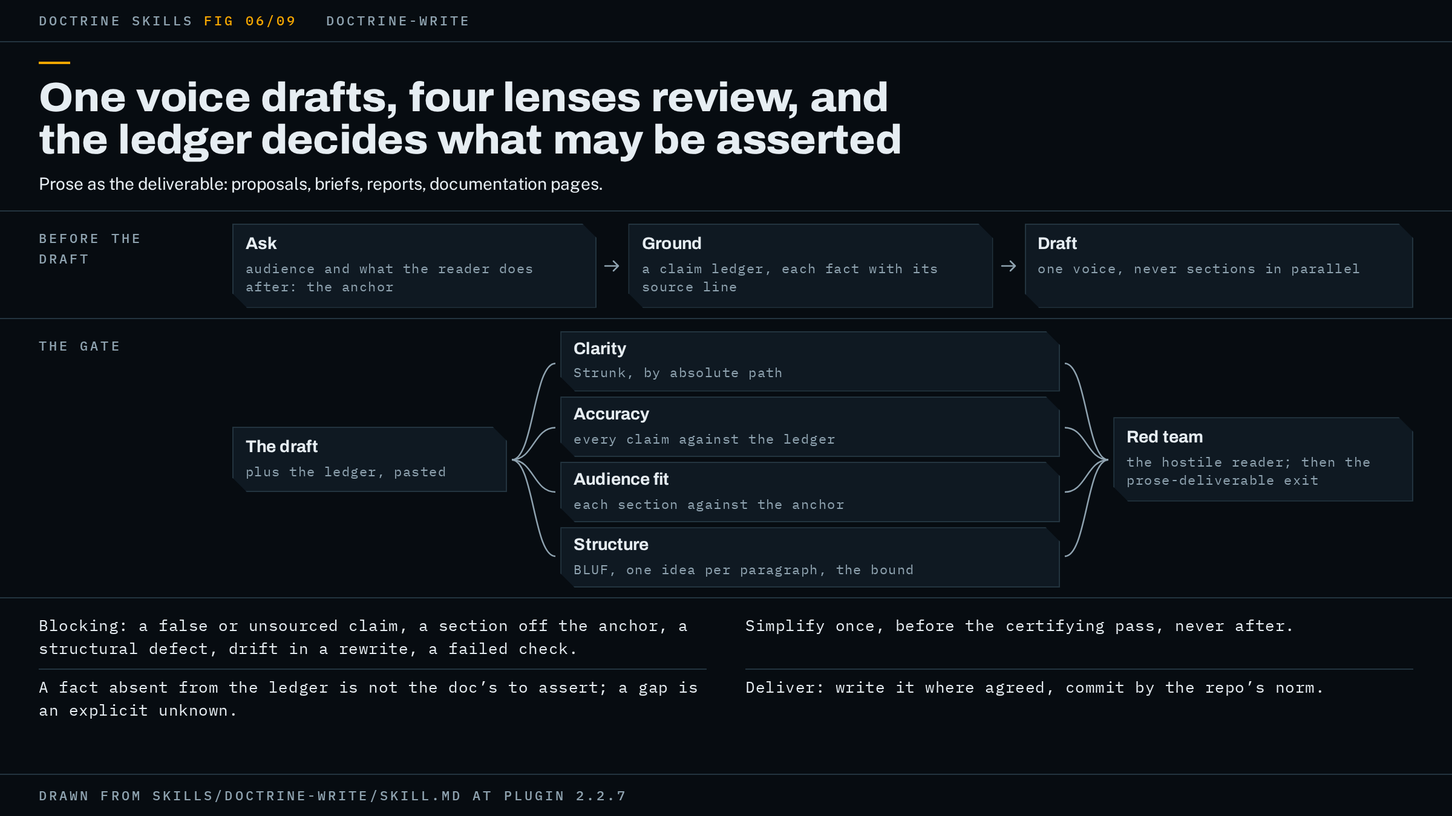
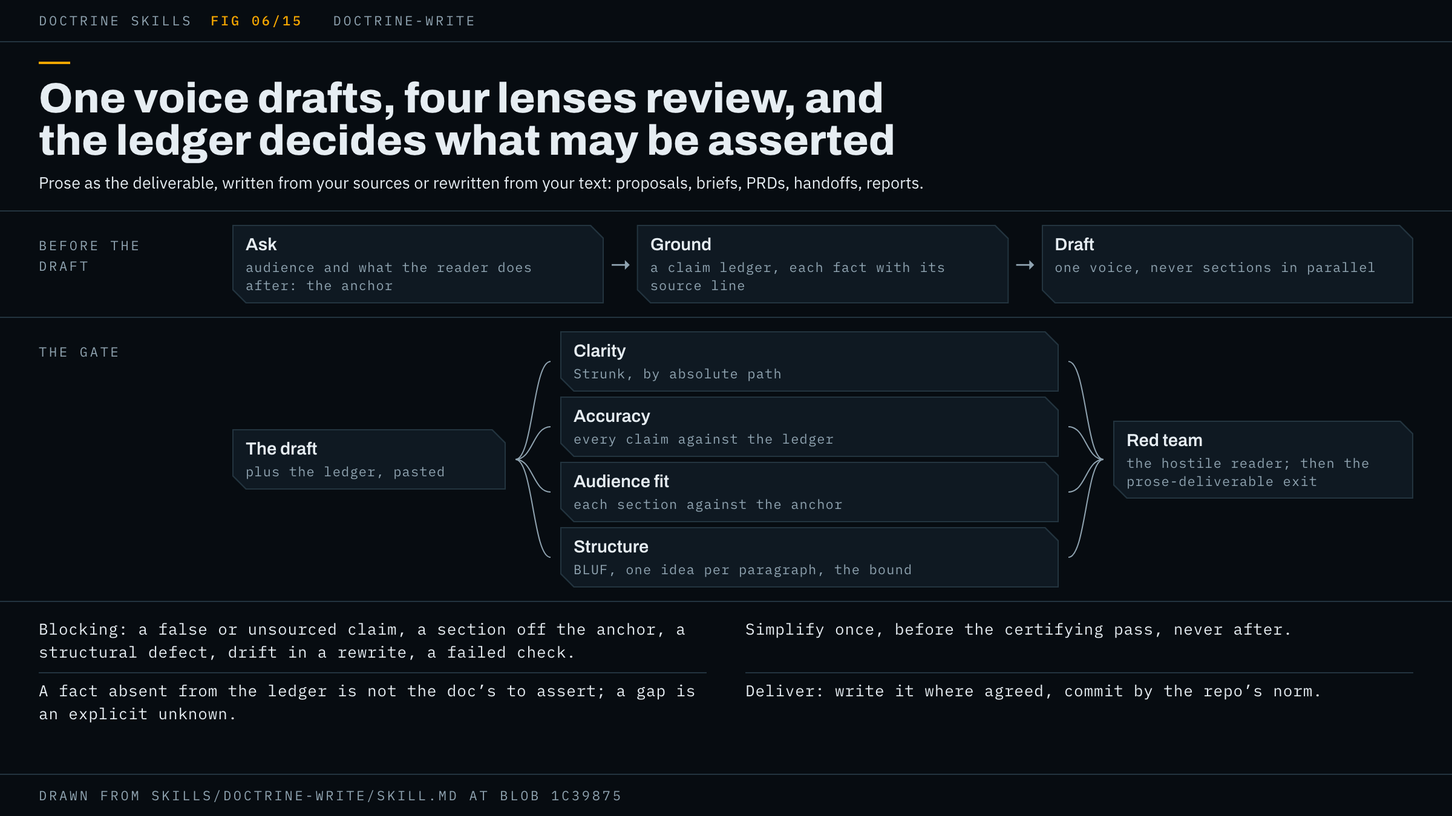
doctrine-write page and figure rewritten from the skill at blob 1c39875, with a tracked figure source

diff --git a/docs/skills/figures/doctrine-write.html b/docs/skills/figures/doctrine-write.html
@@ -1,0 +1,56 @@
+<!doctype html>
+<!-- Figure source for docs/skills/doctrine-write.png, started from specimen.html. Render from the repo root:
+     node docs/skills/figures/render.mjs docs/skills/figures/doctrine-write.html docs/skills/doctrine-write.png -->
+<html lang="en">
+<head>
+<meta charset="utf-8">
+<meta name="drawn-from" content="skills/doctrine-write/SKILL.md@1c3987507e8eb1e02914e86867f074fa32d22657">
+<title>doctrine-write</title>
+<link rel="stylesheet" href="figure.css">
+</head>
+<body>
+<header class="head"><span>Doctrine skills</span><span class="no">FIG 06/15</span><span>doctrine-write</span></header>
+
+<section class="title">
+  <h1>One voice drafts, four lenses review, and the ledger decides what may be asserted</h1>
+  <p>Prose as the deliverable, written from your sources or rewritten from your text: proposals, briefs, PRDs, handoffs, reports.</p>
+</section>
+
+<section class="row">
+  <div class="label">Before the<br>draft</div>
+  <div class="flow">
+    <div class="box"><b>Ask</b><span>audience and what the reader does after: the anchor</span></div>
+    <div class="arrow">→</div>
+    <div class="box"><b>Ground</b><span>a claim ledger, each fact with its source line</span></div>
+    <div class="arrow">→</div>
+    <div class="box"><b>Draft</b><span>one voice, never sections in parallel</span></div>
+  </div>
+</section>
+
+<section class="row">
+  <div class="label">The gate</div>
+  <div class="fan">
+    <div class="col" style="width:226px"><div class="box" id="draft"><b>The draft</b><span>plus the ledger, pasted</span></div></div>
+    <svg class="wires" data-from="#draft" data-to=".lens"></svg>
+    <div class="col" style="width:412px">
+      <div class="box lens"><b>Clarity</b><span>Strunk, by absolute path</span></div>
+      <div class="box lens"><b>Accuracy</b><span>every claim against the ledger</span></div>
+      <div class="box lens"><b>Audience fit</b><span>each section against the anchor</span></div>
+      <div class="box lens"><b>Structure</b><span>BLUF, one idea per paragraph, the bound</span></div>
+    </div>
+    <svg class="wires" data-from=".lens" data-to="#red"></svg>
+    <div class="col" style="flex:1"><div class="box" id="red"><b>Red team</b><span>the hostile reader; then the prose-deliverable exit</span></div></div>
+  </div>
+</section>
+
+<section class="notes">
+  <p>Blocking: a false or unsourced claim, a section off the anchor, a structural defect, drift in a rewrite, a failed check.</p>
+  <p>Simplify once, before the certifying pass, never after.</p>
+  <p>A fact absent from the ledger is not the doc’s to assert; a gap is an explicit unknown.</p>
+  <p>Deliver: write it where agreed, commit by the repo’s norm.</p>
+</section>
+
+<footer class="foot">Drawn from skills/doctrine-write/SKILL.md at blob 1c39875</footer>
+<script src="figure.js"></script>
+</body>
+</html>

diff --git a/docs/skills/doctrine-write.md b/docs/skills/doctrine-write.md
@@ -1,121 +1,124 @@
 # doctrine-write
 
-Use it when the document itself is the deliverable: a proposal, a brief, a PRD, a handoff or a report that has to be clear, accurate, and airtight, and you want it written or rewritten under the same gate the code skills run.
+Use `doctrine-write` when the document itself is the deliverable: a proposal, a brief, a PRD, a handoff, a report, or any prose that must be clear, accurate and airtight. One author drafts from a ledger of sourced claims, four review lenses read the draft in parallel, a red team reads it whole, and the run loops until one pass of the gate comes back clean or the closing round ends it.
 
-![The doctrine-write shape: one author drafts in one voice from a claim ledger, four review lenses read the draft in parallel, then a red team reads it whole, and the loop exits on one clean pass or the prose-deliverable closing round.](doctrine-write.png)
+![The doctrine-write figure. Top row, before the draft: Ask records the audience and what the reader does afterward as the anchor, Ground builds a claim ledger with a source line per fact, and Draft is written in one voice. Bottom row, the gate: the draft and its pasted ledger fan out to four lenses (clarity, accuracy, audience fit, structure), which feed one red team, followed by the prose-deliverable exit. Notes list what blocks, that simplification runs once before the certifying pass, that a fact missing from the ledger is not asserted, and that delivery commits by the repository's norm.](doctrine-write.png)
 
-The figure shows the shape this page walks through: one author, a ledger, a wave of four lenses, a red team, and the gate they feed.
+## When it fires
 
-## When to use it, and when not
+It fires on a request for an important document written or rewritten "with the doctrine". It loads the `doctrine` skill first, and the hub supplies the posture this page refers to as doctrine steps 1 to 7.
 
-The trigger is a request for an important document written or rewritten with the doctrine. The description names proposals, briefs, PRDs, handoffs and reports, and it reaches any prose deliverable where a wrong sentence costs something.
+It has two modes:
 
-It has two modes. In authoring mode the run writes the document from source material you supply. In rewrite mode your existing text enters as draft 1 and the run keeps your meaning: it tightens the words and does not change the claims. The difference matters at the gate, because in rewrite mode a change to what a sentence claims is a defect, not an improvement.
+- **Authoring.** The run writes the document from the source material you supply.
+- **Rewrite.** Your text enters as draft 1. The run tightens the words and keeps your meaning, so it never changes a claim the sources do not refute. A claim a source line contradicts is corrected to what that line says, recorded in the ledger, and named to you at delivery.
 
-Two neighbours own adjacent work. `doctrine-docs` owns sweeps of a codebase's documentation against its implementation. `doctrine-research` owns producing researched content, the multi-source question that needs a fact-checked answer. `doctrine-write` is for when the writing is the deliverable, and the spec says to chain it after either of those when you have both a research job and a document to write from it.
+Two neighbours own nearby work. `doctrine-docs` sweeps a codebase's documentation against its implementation, and `doctrine-research` produces researched content. If you need research and then a document written from it, run `doctrine-write` after either one.
 
-It is not for quick edits or informal messages. A single clarity pass covers those, and the gate here costs more than a message is worth.
+It is not for quick edits or informal messages. A single clarity pass covers those.
 
-## What it asks you first
+## What it asks you
 
-Before drafting, the run asks what your request left open. Expect questions on:
+Before anything is drafted, the run asks what your request left open:
 
-- Audience, and what the reader should know or do afterward. Your answer is written down verbatim as the document's anchor, and every review lens later grades sections against it.
-- Register, format and length.
-- Source material, and whether the run may use web sources. It may not unless you say so.
-- Destination: where the finished file lands.
+- **Audience, and what the reader should know or do afterward.** Your answer is recorded verbatim as the document's anchor, and every lens grades against it.
+- **Register, format and length.** A length bound is recorded in one unit only: the unit you named, or words if you named none. Every length the run measures, of your original and of each draft, is recorded with the command that produced it (`wc -w <file>` for words), so rerunning that command on the same text gives the same count.
+- **Source material.** The run uses no web sources unless you authorize them.
+- **Destination:** where the finished file lands.
 
-For the highest-stakes documents it offers a judge panel: two or three candidate drafts in different structures, each written whole by one agent, then a fresh-context judge, handed the anchor, the ledger, the agreed register, format and length, and the drafts under neutral filenames, that grades on one question, which structure gets this reader to what they must know or do, and what each losing draft does better. The panel is off by default because it triples drafting cost. If you take it, it runs after the ledger is built, not at the questions step, since every draft needs the ledger and the settled register, format and length to draft against.
+A question whose answer changes how the work is aimed blocks the run until you answer it. It never becomes a default (doctrine step 1).
 
-The hub's rule on questions applies (doctrine step 1): a question only you can answer, where the work would be aimed differently depending on the answer, blocks the phase and never becomes a default.
+For the highest-stakes documents it also offers a **judge panel**. Two or three agents each write a whole draft in a different structure. A fresh-context judge reads the drafts under neutral filenames, so it cannot rank them by author. It asks one question: which structure gets this reader to what they must know or do, and what does each losing draft do better? The run then writes up the winner, folding in what the judge salvaged. Every panel agent and the judge are handed the anchor, the ledger and the register, format and length you agreed. The panel is off by default because it triples drafting cost, and if you take it, it runs after the ledger is built.
 
-## How the work runs
+## How a run goes
 
-The wrapper maps the hub's posture onto seven steps of its own.
+1. **Ask**, as above.
+2. **Ground.** The run builds a claim ledger from your sources: every fact and number the document may assert, each with its source line. A fact missing from the ledger is not the document's to assert. A gap in the sources appears in the document as an explicit unknown, never as a plausible guess.
+3. **Draft in one voice.** The run writes the draft itself. It never hands sections to parallel agents, because stitched sections read as several authors. The judge panel is the one exception, and only one of its drafts survives. Rewrite mode skips this step.
+4. **Review wave.** Four lenses run in parallel, and none of them is the author:
+   - **Clarity** applies Strunk's rules through the `writing-clearly-and-concisely` skill and returns findings with line references.
+   - **Accuracy** checks every checkable claim against the ledger, and each ledger line against the source it cites. An unsourced claim is cut or moved to unknowns. In rewrite mode an unsourced claim in your own text is flagged rather than cut and put to you, and your ruling goes into the ledger for the next round's lenses. This lens also compares a rewrite with your original for any change in meaning, so it is handed the original.
+   - **Audience fit** asks whether each section serves the anchor, and what this reader would skip, misread or push back on.
+   - **Structure** checks for the bottom line first, one idea per paragraph, headings that earn their place, and length within the agreed bound.
+   The findings are merged, duplicates dropped, and the draft edited.
+5. **Red team** (doctrine step 4). After the wave, an adversary reads the whole document as a hostile reader. It reports where it got confused, misled or bored, and the strongest case against the document's conclusion. On Claude Code the red team is Codex, through the codex plugin. Each finding is checked against the ledger and the sources before anything changes, because adversarial reviewers report false positives.
+6. **Loop** until the gate exits, as described below.
+7. **Deliver** (doctrine step 7), as described in "How it ends".
 
-1. Ask, as above, and record the anchor.
-2. Ground. The run builds a claim ledger from your source material: every fact and number the document may assert, each with its source line, in enough detail that someone holding the ledger and not the sources could check the document against it. A fact the ledger does not carry is not the document's to assert. A gap in the sources becomes an explicit unknown in the document, never a plausible guess.
-3. Draft in one voice. The orchestrator writes the draft directly rather than handing sections to parallel agents, because stitched sections produce Frankenstein prose. The doctrine's parallelism belongs in review. The judge panel is the one exception, and it keeps the rule: each panel agent writes a whole draft, and only one survives, so no delivered sentence has two authors. Rewrite mode skips this step.
-4. Review wave. Four independent lenses run in parallel, none of them the author. Findings are merged, deduplicated and applied.
-5. Red team (doctrine step 4). After the wave has passed the document, an adversary reads the whole thing as a hostile reader.
-6. Loop to the hub's gate (doctrine step 5) until it exits.
-7. Deliver (doctrine step 7). The document is written to the destination you agreed at step 1. That agreement is the authorization to write, and the run does not ask again. Whether it commits follows your repository's delivery norm: where the norm is to commit, it commits its own paths; where the norm is a patch handoff, it hands you the diff and says so. An unrelated dirty file in your tree is not a reason for it to stop. In chat you get the document's one-line thrust plus anything that needs your judgment.
+## The anchor and the claim ledger
 
-## What the gate is for this shape
+Both live in one file, built before a word is drafted. By default it sits beside the destination as `<doc>-ledger.md`. It goes instead in your project's place for working notes where there is one, or in the session's scratchpad where the repository is not writable or you want no working files in it. The report names the path, and at delivery the run asks whether the ledger ships with the document or is dropped.
 
-The gate is the hub's full three parts, and the wrapper says what fills each.
+The file is amended and never frozen. It takes in later sources, your rulings on flagged claims, corrections to refuted claims, and every red-team finding verified or refuted. Run state, such as the round counters, goes under a trailing `## Run state (orchestrator only)` heading that no reviewer is handed.
 
-Native checks (doctrine step 3) are every check your project documents as a gate for the place the document lands: a prose or markdown linter such as `vale` or `markdownlint`, a docs build, a link, spelling or frontmatter check, whatever your `CLAUDE.md`, README, review checklist or task runner lists. The run reads `package.json` scripts or their equivalent itself rather than trusting a summary, since a project with no build step still has gates. On top of those it runs the doctrine's docs-diff form: re-verify every edited claim against its source, then run a link and path check over the result. Where the destination has no tooling around it at all, the docs-diff form is the whole of native checks, and the spec calls that a complete answer rather than a gap. Because a document does not execute, the docs-diff check is also what stands in for the hub's real-environment run.
+The run pastes the file into every prompt rather than pointing at its path, along with what each reviewer grades against:
 
-The designated review is the four-lens wave:
+- Every lens and the red team get the list of what blocks in a document, beside the hub's general definition of a blocking finding.
+- Accuracy and the red team get the source material itself. An accuracy lens handed only the draft reports that the claims look sourced, which is also what an invented fact looks like.
+- Audience fit gets the anchor in your recorded words.
+- Audience fit, structure and the red team get the register, length bound and format you agreed.
+- The red team gets the same clarity method the clarity lens uses.
+- In rewrite mode, accuracy and the red team get your original text.
 
-- Clarity applies Strunk's rules through the `writing-clearly-and-concisely` skill and returns findings with line references.
-- Accuracy checks every checkable claim against the ledger and the sources. An unsourced claim is cut or moved to unknowns. In rewrite mode an unsourced claim in your own text is flagged rather than cut, put to you when the lens returns, and your ruling is recorded in the ledger where the next loop's lenses read it. This lens also diffs a rewrite against the original for semantic drift, so it is handed the original text.
-- Audience fit asks whether each section serves the anchor, and what this reader would skip, misread or push back on.
-- Structure checks for BLUF first, one idea per paragraph, headings that earn their place, and length within the bound you agreed.
+The clarity method is resolved before any seat goes out. The run finds the installed `elements-of-style.md` and hands the lens and the red team its absolute path, with an instruction to read it. It passes the path rather than the text because the file runs past 12,000 words. Where the skill is not installed, both seats get Strunk's core rules inline: omit needless words, use the active voice, prefer definite and concrete language, and keep one idea per paragraph. The report says which of the two they got.
 
-The wave is not native checks. The spec is explicit that collapsing the two reports a two-part gate as the full three.
+## The gate
 
-The red team reads the document as the hostile reader: where it got confused, misled or bored, and the strongest case against its conclusion. It is handed what it needs to refute the document at the level it was written: the anchor and the ledger, the list of what blocks in a document, the source material the ledger was built from, the agreed register, length and format, the clarity method, and in rewrite mode the original text. Every finding is verified against the ledger and the source material behind it before anything is changed, because adversarial reviewers produce false positives.
+The gate is the hub's full three parts: native checks, the review wave, and the red team.
 
-What blocks in a document is narrower than "could be better": a false or unsourced claim, a section that does not serve the anchor, a structural defect, semantic drift in a rewrite, or a failed check. A sentence that could be shorter and means the right thing is not a finding. The bar is what the reader does next, never the polish of the wording. Which bucket a finding lands in follows the hub's three-bucket rule unchanged.
+**Native checks** (doctrine step 3) are every check your project documents as a gate for the place the document lands. That means a prose or markdown linter such as `vale` or `markdownlint`, a docs build, or a link, spelling or frontmatter check, whatever your `CLAUDE.md`, README, review checklist or task runner lists. The run reads your `package.json` scripts or their equivalent itself, because a project with no build step still has gates. On top of those it re-verifies every edited claim against its source and checks every link and path. Where the destination has no tooling, that re-check is the whole of native checks. The hub runs each check through its gate launcher, `hooks/dctr-gate.mjs`, and reads the exit status from the result file it writes. The review wave does not count as native checks.
 
-The exit is the hub's prose-deliverable exit, adopted by name. A phase exits on one clean pass of the full gate. Where no pass has come clean by the round alarm's first firing (every fourth round that found a blocker, unless you set a different figure), the run takes one closing round scoped to the diff since the last fully reviewed revision, or to the whole document where no revision was fully reviewed, then ends as Shipped at an escalation, with a punch list of what it did not fix, named in the record and in the delivery line. That first firing still puts its diagnosis to you, and the closing round starts without waiting for an answer; say stop if you do not want it to run. The time alarm, two hours by default, still stops the loop for your decision. The spec calls out one hub rule as biting hardest in prose: simplification runs once, before the pass that certifies the document, as a pass that deletes redundancy and decoration, and never again after it, because a simplification landed after the certifying pass ships uncertified.
+**What blocks** in a document is a false or unsourced claim, a section that does not serve the anchor, a structural defect, a change in meaning in a rewrite (a claim the sources do not refute, altered or dropped), or a failed check. A sentence that could be shorter but means the right thing is not a finding. The test is what the reader does next, not the polish of the wording.
 
-The anchor and the claim ledger are two artifacts in one file, built before a word is drafted and handed to every lens, the red team, the panel if it runs, and any agent that touches the document. The file lives beside the destination as `<doc>-ledger.md`, or in your project's own place for working notes, or in the session's scratchpad where the repo is not writable or you do not want working files in it. The report names its path, and at delivery the run asks whether it ships with the document or is dropped. It is amended, never frozen: later sources, your rulings on flagged claims, and every red-team finding verified or refuted go into it, with run state under a trailing orchestrator-only heading that no reviewer is handed. Its contents are pasted into each lens prompt, never pointed at, since a lens cannot open a path nobody resolved for it. An accuracy lens handed a draft alone reports that the claims look sourced, which is what an invented fact looks like too.
+**Simplification** runs once, before the pass meant to certify the document, and it deletes redundancy and decoration. It never runs after that pass, because a cut landed after certification ships uncertified.
 
-## A worked example
+**The exit** is the hub's prose-deliverable exit, which `doctrine-write` adopts by name. The run exits on one clean pass. Two alarms bound the loop (doctrine step 5):
 
-This example is illustrative: it shows the shape of a run, not a recorded one.
+- **Round alarm.** It fires at every Nth round that found a blocking finding. N is your figure, or 4 by default.
+- **Time alarm.** It fires when more time than your budget passes without a round closing. The budget is two hours by default.
 
-You ask for a handoff document for a service another team is inheriting, and you have the service's README, its runbook and a page of your own notes. The run asks who the reader is and what they should be able to do afterward; you answer "the on-call engineer on the receiving team, able to restart the service and roll back a deploy without calling us." That sentence goes verbatim into `docs/handoff-ledger.md` as the anchor, with the round alarm at its default of 4 and the time budget at its default of two hours. You decline the judge panel. You say the run may not use web sources, and that the document lands at `docs/handoff.md`.
+If no pass has come clean when the round alarm first fires, the run still puts its diagnosis to you. It then opens one closing round without waiting for your answer, so say stop if you want otherwise. That round reviews the diff since the last revision every seat fully reviewed, or the whole document where none was. A finding outside that diff goes on a punch list rather than blocking. The run then delivers as Shipped at an escalation, with the punch list. The time alarm stops the loop until you rule.
 
-The run builds the ledger from the three sources: each restart command, each rollback step, each port and each owner, one line each with its source line. Your notes mention a rate limit with no figure. That goes under Unknowns, and the draft says the limit is not recorded rather than guessing one.
+## How it ends
 
-The draft is written in one voice. The run resolves `elements-of-style.md` to its absolute path and dispatches the four lenses in parallel, each prompt carrying the draft, the anchor, the ledger, the hub's blocking definition and the list of what blocks in a document, with the runbook and notes the ledger came from for accuracy and the agreed register and length for audience fit and structure. Accuracy returns that one rollback step cites a flag the runbook does not name; that is a false claim and blocks. Audience fit returns that the history section does not help the on-call engineer do either task; that section is cut. Clarity and structure return non-blocking items that are applied. The run repairs the draft, then dispatches the red team with the repaired draft, the anchor, the ledger, the source material, the register and length, the document blocking list and the clarity method's path. It returns the strongest case against the document: the rollback procedure assumes the previous image is still present. The run checks the runbook, finds the retention rule there, and adds one sourced sentence. Because that repair changed a claim, the next round is a full pass over the repaired revision.
+The run writes the document to the destination you agreed. That agreement authorizes the write, so the run does not ask again. Committing follows your repository's delivery norm, from its `CLAUDE.md` or its history. Where the norm is to commit, the run commits its own paths and is not stopped by an unrelated dirty file. Where the norm is a patch handoff, it hands you the diff and says so. Agreeing a destination does not, on its own, agree a commit.
 
-This project has no documented prose tooling, so native checks are the docs-diff form: every edited claim re-verified against the runbook and README, and a link and path check over the result. The second round's lenses and red team come back with no blocking findings, the round's checks are on record, and the simplification pass has already run. The run writes `docs/handoff.md`, and since the repository's CLAUDE.md says work lands as a commit, it commits that file and the ledger's path is named for your decision.
-
-The report opens with the gate line, in the form the README shows:
+The report opens with the gate line, for example:
 
 ```text
 Gate: clean pass on 4a3e4ca, real run on record. No blockers open.
 ```
 
-Under it, the shape the spec asks for: the document's one-line thrust, the ledger path and the question of whether it ships, a note that the clarity lens ran the installed skill rather than the inline fallback, the one Unknown the reader will see in the document, and the deferred list of non-blocking items not applied. Had the loop reached round 4 without a clean pass, the closing round would have run over the diff since the last fully reviewed revision and the line would instead name that ending: Shipped at an escalation, with the punch list of what the phase did not fix, in a wording the README says varies.
+Below that come the document's one-line thrust, anything that needs your judgment, the ledger's path and whether it ships, which clarity method the lenses got, any corrected claims, and the deferred non-blocking items. The record names one of the hub's five end states: Exited (the only clean one), Stopped, Shipped at an escalation, Blocked on an unanswered question, or Unable to continue.
 
 ## How to invoke it
-
-The description fires on a request for an important document written or rewritten with the doctrine. One sample prompt:
 
 ```text
 use doctrine-write to rewrite docs/proposal.md for the finance committee; keep every claim, sources are in docs/proposal-sources/
 ```
 
-Naming the reader and the sources in the prompt shortens the questions step; the run still records your words as the anchor before it drafts.
+If you name the reader and the sources in the prompt, the questions step is shorter. The run still records your words as the anchor before it drafts.
 
 ## Requirements
 
-Nothing must be installed. Two optional skills change what fills a seat, and the report says which it got.
+Nothing beyond the plugin must be installed. Two optional pieces change what fills a seat:
 
-- `writing-clearly-and-concisely` (Strunk's Elements of Style as a skill, by Josh Thomas via softaworks). With it, the clarity lens and the red team are handed the absolute path to `elements-of-style.md` and told to read it; the path rather than the text, because the file runs to over 12,000 words. Without it, both get Strunk's core rules inline: omit needless words, active voice, definite concrete language, one idea per paragraph. A lens working from remembered Strunk returns findings that look like a real pass, which is why the report must say which of the two they got.
-- The OpenAI codex plugin, with the Codex CLI logged in, supplies the different-model red team. Without it the hub's fallback applies: a fresh-context subagent prompted to refute the document, with the verify-from-source rule in its brief. That substitute is same-model, its blind spots correlate with the author's, and the exit statement names it as a substitution.
+- [`writing-clearly-and-concisely`](https://github.com/softaworks/agent-toolkit/tree/main/skills/writing-clearly-and-concisely) supplies the clarity method. Without it, the inline Strunk rules above apply.
+- [OpenAI's codex plugin](https://github.com/openai/codex-plugin-cc), with the Codex CLI logged in, supplies the red team from the other model family. Without it, a fresh-context subagent prompted to refute the document takes the seat. That substitute is the same model, so its blind spots overlap with the author's, and the exit statement names the substitution.
 
-Install commands and what happens when each is missing are in [docs/requirements.md](../requirements.md). To watch the lenses and the red team work as they run, see [watching a run](../watching-a-run.md).
+Install commands are in [requirements.md](../requirements.md).
 
 ## Red flags
 
-The spec lists the ways a run goes wrong. In reader terms, stop and ask if you see any of these:
+Stop the run and ask if you see any of these:
 
-- A lens reports the claims look sourced, and its prompt carried the draft but no ledger.
-- The clarity lens is quoting Strunk from memory because nobody resolved the skill's path.
-- A number appears in the document that no line of the ledger accounts for.
-- Every loop tightens one more sentence and the phase never closes.
-- A rewrite improved a claim instead of the words carrying it.
-- The document landed in a repo whose docs linter nobody ran.
-- By the third loop the anchor and the round counters exist only in the conversation, not on disk.
+- A lens reports that the claims look sourced, and its prompt carried the draft but no ledger.
+- The clarity lens is working from remembered Strunk because nobody resolved the skill's path.
+- The document has a number that no ledger line accounts for.
+- Every loop tightens one more sentence and the run never closes.
+- A rewrite improved a claim the sources do not refute instead of the words carrying it.
+- The document landed in a repository whose docs linter nobody ran.
+- By the third loop the anchor and the counters exist only in the conversation, not on disk.
 - Sections were drafted by parallel agents and stitched together.
 
-The hub's page is [doctrine.md](doctrine.md), and the README is [here](../../README.md).
-
-The specification is [`skills/doctrine-write/SKILL.md`](../../skills/doctrine-write/SKILL.md); trust it over this page wherever the two disagree.
+The hub's page is [doctrine.md](doctrine.md). The specification is [`skills/doctrine-write/SKILL.md`](../../skills/doctrine-write/SKILL.md). Where this page and the specification disagree, trust the specification.
